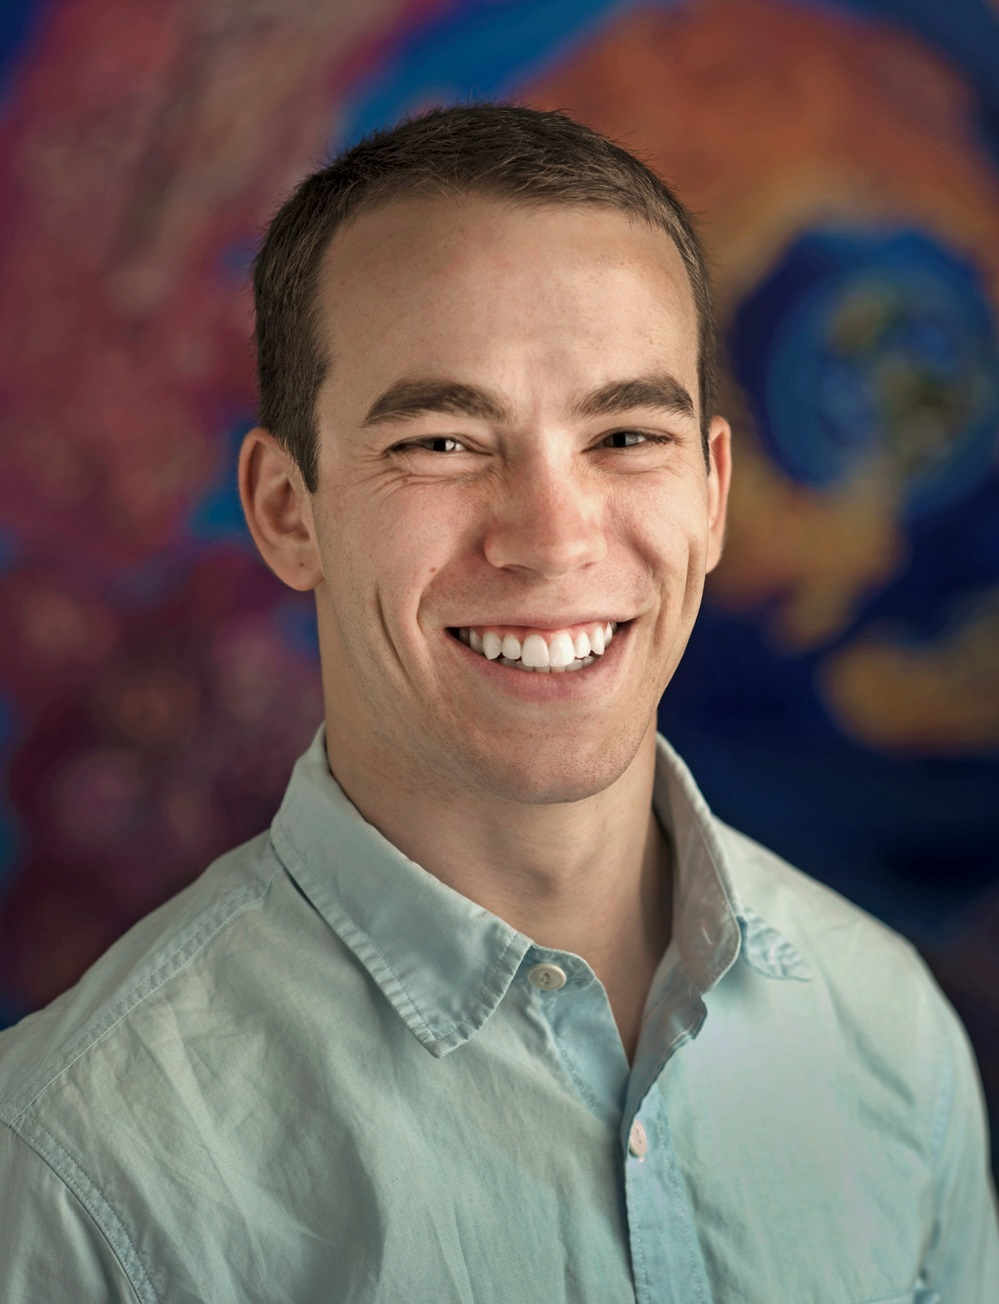
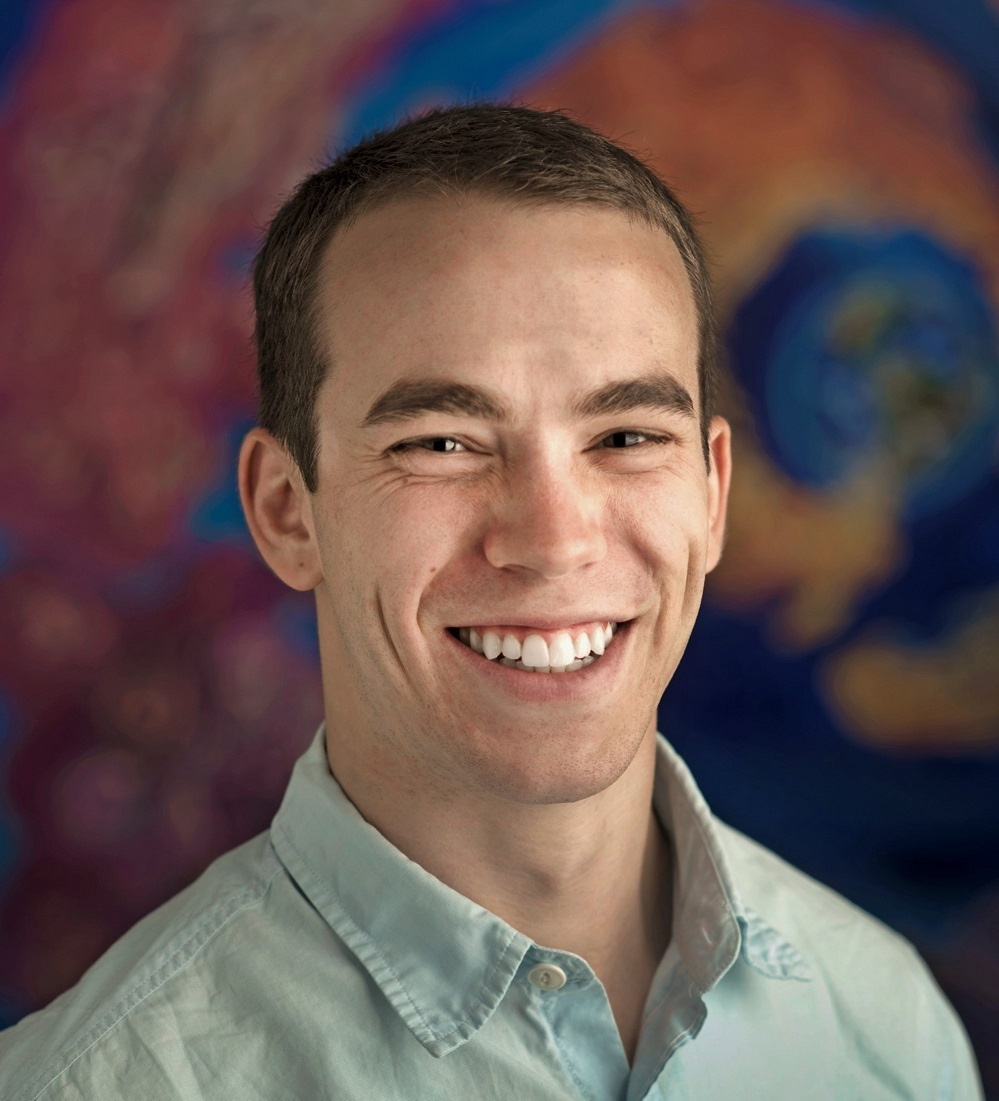
fixed photo

diff --git a/teaching/reviews/index.html b/teaching/reviews/index.html
@@ -573,7 +573,7 @@ his ability. I wish he could have taught the whole course.</em></p>
   <div class="media author-card content-widget-hr">
     
       
-      <img class="portrait mr-3" src="/authors/admin/avatar_hua3430527ed57b834d2b0d502827ae342_300051_250x250_fill_q90_lanczos_center.jpg" alt="Avatar">
+      <img class="portrait mr-3" src="/authors/admin/avatar_hucbe173be07273f412ef6bfc69d3bcef0_250901_250x250_fill_q90_lanczos_center.jpg" alt="Avatar">
     
 
     <div class="media-body">

diff --git a/travel/test/index.html b/travel/test/index.html
@@ -1006,7 +1006,7 @@
   <div class="media author-card content-widget-hr">
     
       
-      <img class="portrait mr-3" src="/authors/admin/avatar_hua3430527ed57b834d2b0d502827ae342_300051_250x250_fill_q90_lanczos_center.jpg" alt="Avatar">
+      <img class="portrait mr-3" src="/authors/admin/avatar_hucbe173be07273f412ef6bfc69d3bcef0_250901_250x250_fill_q90_lanczos_center.jpg" alt="Avatar">
     
 
     <div class="media-body">

diff --git a/post/cwgenerator/index.html b/post/cwgenerator/index.html
@@ -595,7 +595,7 @@
   <div class="media author-card content-widget-hr">
     
       
-      <img class="portrait mr-3" src="/authors/admin/avatar_hua3430527ed57b834d2b0d502827ae342_300051_250x250_fill_q90_lanczos_center.jpg" alt="Avatar">
+      <img class="portrait mr-3" src="/authors/admin/avatar_hucbe173be07273f412ef6bfc69d3bcef0_250901_250x250_fill_q90_lanczos_center.jpg" alt="Avatar">
     
 
     <div class="media-body">

diff --git a/post/encephalophone/index.html b/post/encephalophone/index.html
@@ -608,7 +608,7 @@
   <div class="media author-card content-widget-hr">
     
       
-      <img class="portrait mr-3" src="/authors/admin/avatar_hua3430527ed57b834d2b0d502827ae342_300051_250x250_fill_q90_lanczos_center.jpg" alt="Avatar">
+      <img class="portrait mr-3" src="/authors/admin/avatar_hucbe173be07273f412ef6bfc69d3bcef0_250901_250x250_fill_q90_lanczos_center.jpg" alt="Avatar">
     
 
     <div class="media-body">

diff --git a/post/gpx2/index.html b/post/gpx2/index.html
@@ -598,7 +598,7 @@
   <div class="media author-card content-widget-hr">
     
       
-      <img class="portrait mr-3" src="/authors/admin/avatar_hua3430527ed57b834d2b0d502827ae342_300051_250x250_fill_q90_lanczos_center.jpg" alt="Avatar">
+      <img class="portrait mr-3" src="/authors/admin/avatar_hucbe173be07273f412ef6bfc69d3bcef0_250901_250x250_fill_q90_lanczos_center.jpg" alt="Avatar">
     
 
     <div class="media-body">

diff --git a/post/hunch/index.html b/post/hunch/index.html
@@ -612,7 +612,7 @@
   <div class="media author-card content-widget-hr">
     
       
-      <img class="portrait mr-3" src="/authors/admin/avatar_hua3430527ed57b834d2b0d502827ae342_300051_250x250_fill_q90_lanczos_center.jpg" alt="Avatar">
+      <img class="portrait mr-3" src="/authors/admin/avatar_hucbe173be07273f412ef6bfc69d3bcef0_250901_250x250_fill_q90_lanczos_center.jpg" alt="Avatar">
     
 
     <div class="media-body">

diff --git a/post/ibpoet/index.html b/post/ibpoet/index.html
@@ -638,7 +638,7 @@
   <div class="media author-card content-widget-hr">
     
       
-      <img class="portrait mr-3" src="/authors/admin/avatar_hua3430527ed57b834d2b0d502827ae342_300051_250x250_fill_q90_lanczos_center.jpg" alt="Avatar">
+      <img class="portrait mr-3" src="/authors/admin/avatar_hucbe173be07273f412ef6bfc69d3bcef0_250901_250x250_fill_q90_lanczos_center.jpg" alt="Avatar">
     
 
     <div class="media-body">

diff --git a/post/neurodisc/index.html b/post/neurodisc/index.html
@@ -648,7 +648,7 @@
   <div class="media author-card content-widget-hr">
     
       
-      <img class="portrait mr-3" src="/authors/admin/avatar_hua3430527ed57b834d2b0d502827ae342_300051_250x250_fill_q90_lanczos_center.jpg" alt="Avatar">
+      <img class="portrait mr-3" src="/authors/admin/avatar_hucbe173be07273f412ef6bfc69d3bcef0_250901_250x250_fill_q90_lanczos_center.jpg" alt="Avatar">
     
 
     <div class="media-body">

diff --git a/post/radx/index.html b/post/radx/index.html
@@ -617,7 +617,7 @@
   <div class="media author-card content-widget-hr">
     
       
-      <img class="portrait mr-3" src="/authors/admin/avatar_hua3430527ed57b834d2b0d502827ae342_300051_250x250_fill_q90_lanczos_center.jpg" alt="Avatar">
+      <img class="portrait mr-3" src="/authors/admin/avatar_hucbe173be07273f412ef6bfc69d3bcef0_250901_250x250_fill_q90_lanczos_center.jpg" alt="Avatar">
     
 
     <div class="media-body">

diff --git a/talk/ieee-aerospace-2018/index.html b/talk/ieee-aerospace-2018/index.html
@@ -729,7 +729,7 @@
   <div class="media author-card content-widget-hr">
     
       
-      <img class="portrait mr-3" src="/authors/admin/avatar_hua3430527ed57b834d2b0d502827ae342_300051_250x250_fill_q90_lanczos_center.jpg" alt="Avatar">
+      <img class="portrait mr-3" src="/authors/admin/avatar_hucbe173be07273f412ef6bfc69d3bcef0_250901_250x250_fill_q90_lanczos_center.jpg" alt="Avatar">
     
 
     <div class="media-body">

diff --git a/talk/ieee-biocas-2018/index.html b/talk/ieee-biocas-2018/index.html
@@ -729,7 +729,7 @@
   <div class="media author-card content-widget-hr">
     
       
-      <img class="portrait mr-3" src="/authors/admin/avatar_hua3430527ed57b834d2b0d502827ae342_300051_250x250_fill_q90_lanczos_center.jpg" alt="Avatar">
+      <img class="portrait mr-3" src="/authors/admin/avatar_hucbe173be07273f412ef6bfc69d3bcef0_250901_250x250_fill_q90_lanczos_center.jpg" alt="Avatar">
     
 
     <div class="media-body">

diff --git a/talk/ieee-wisnet-2019/index.html b/talk/ieee-wisnet-2019/index.html
@@ -729,7 +729,7 @@
   <div class="media author-card content-widget-hr">
     
       
-      <img class="portrait mr-3" src="/authors/admin/avatar_hua3430527ed57b834d2b0d502827ae342_300051_250x250_fill_q90_lanczos_center.jpg" alt="Avatar">
+      <img class="portrait mr-3" src="/authors/admin/avatar_hucbe173be07273f412ef6bfc69d3bcef0_250901_250x250_fill_q90_lanczos_center.jpg" alt="Avatar">
     
 
     <div class="media-body">
